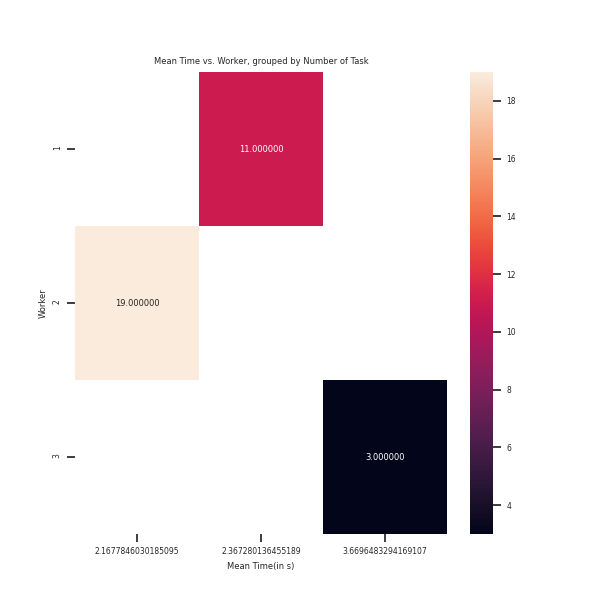
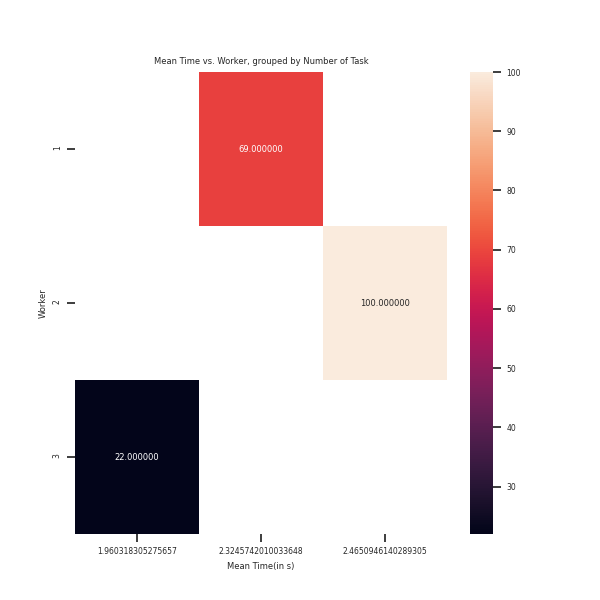
round robin corrected

diff --git a/Master2.py b/Master2.py
@@ -147,6 +147,43 @@ def roundRobin(chosenTask):
 	#print('Task with task id ',chosenTask['task_id'],' is being scheduled on worker with id',currentConfiguration['workers'][workerNumber]['worker_id'])
 
 
+def roundRobin2(chosenTask):
+	numberOfWorkers = len(currentConfiguration['workers'])
+	workerNumber=0
+	workerId = 0
+	configurationLock.acquire()
+	copyConfig = copy.deepcopy(currentConfiguration['workers'])
+	copyConfig.sort(key=lambda x:x['worker_id'])
+	workerId = copyConfig[workerNumber]['worker_id']
+	while copyConfig[workerNumber]['slots'] == 0:
+		configurationLock.release()
+		time.sleep(1)
+		workerNumber = (workerNumber+1)%numberOfWorkers
+		configurationLock.acquire()
+		copyConfig = copy.deepcopy(currentConfiguration['workers'])
+		copyConfig.sort(key=lambda x:x['worker_id'])
+		workerId = copyConfig[workerNumber]['worker_id']
+	#currentConfiguration['workers'][workerNumber]['slots']-=1
+	#print(currentConfiguration)
+	#print("\n")
+	indexNumber=-1
+	#minLoadingIndex=currentConfiguration['workers'].find(currentConfiguration['workers']['worker_id']=minLoadingIndex)
+	for i in range(0,len(currentConfiguration['workers'])):
+		if(currentConfiguration['workers'][i]['worker_id']==workerId):
+			indexNumber=i
+			break
+	currentConfiguration['workers'][indexNumber]['slots']-=1
+	#print(currentConfiguration)
+	#print("\n")
+	#print(currentConfiguration['workers'][minLoadingIndex]['slots'],' is slots')
+	configurationLock.release()
+
+	#print(chosenTask)
+	sendToWorker(chosenTask,indexNumber)
+	#print('Task with task id ',chosenTask['task_id'],' is being scheduled on worker with id',currentConfiguration['workers'][workerNumber]['worker_id'])
+
+
+
 def leastLoaded(chosenTask):
 	numberOfWorkers = len(currentConfiguration['workers'])
 	workerNumber=0
@@ -253,7 +290,7 @@ def scanSchedule():
 				randomScheduling(chosenTask)
 				pass
 			elif findTask and scheduleMethod == 'Round':
-				roundRobin(chosenTask)
+				roundRobin2(chosenTask)
 				pass
 			elif findTask and scheduleMethod == 'Least':
 				leastLoaded(chosenTask)

diff --git a/Worker2.py b/Worker2.py
@@ -46,6 +46,7 @@ def executeNotify():
 				executionListLock.release()
 
 				executionDetails(task)
+		#time.sleep(1)
 
 # listen to request
 thread1 = threading.Thread(target=listenRequest)
